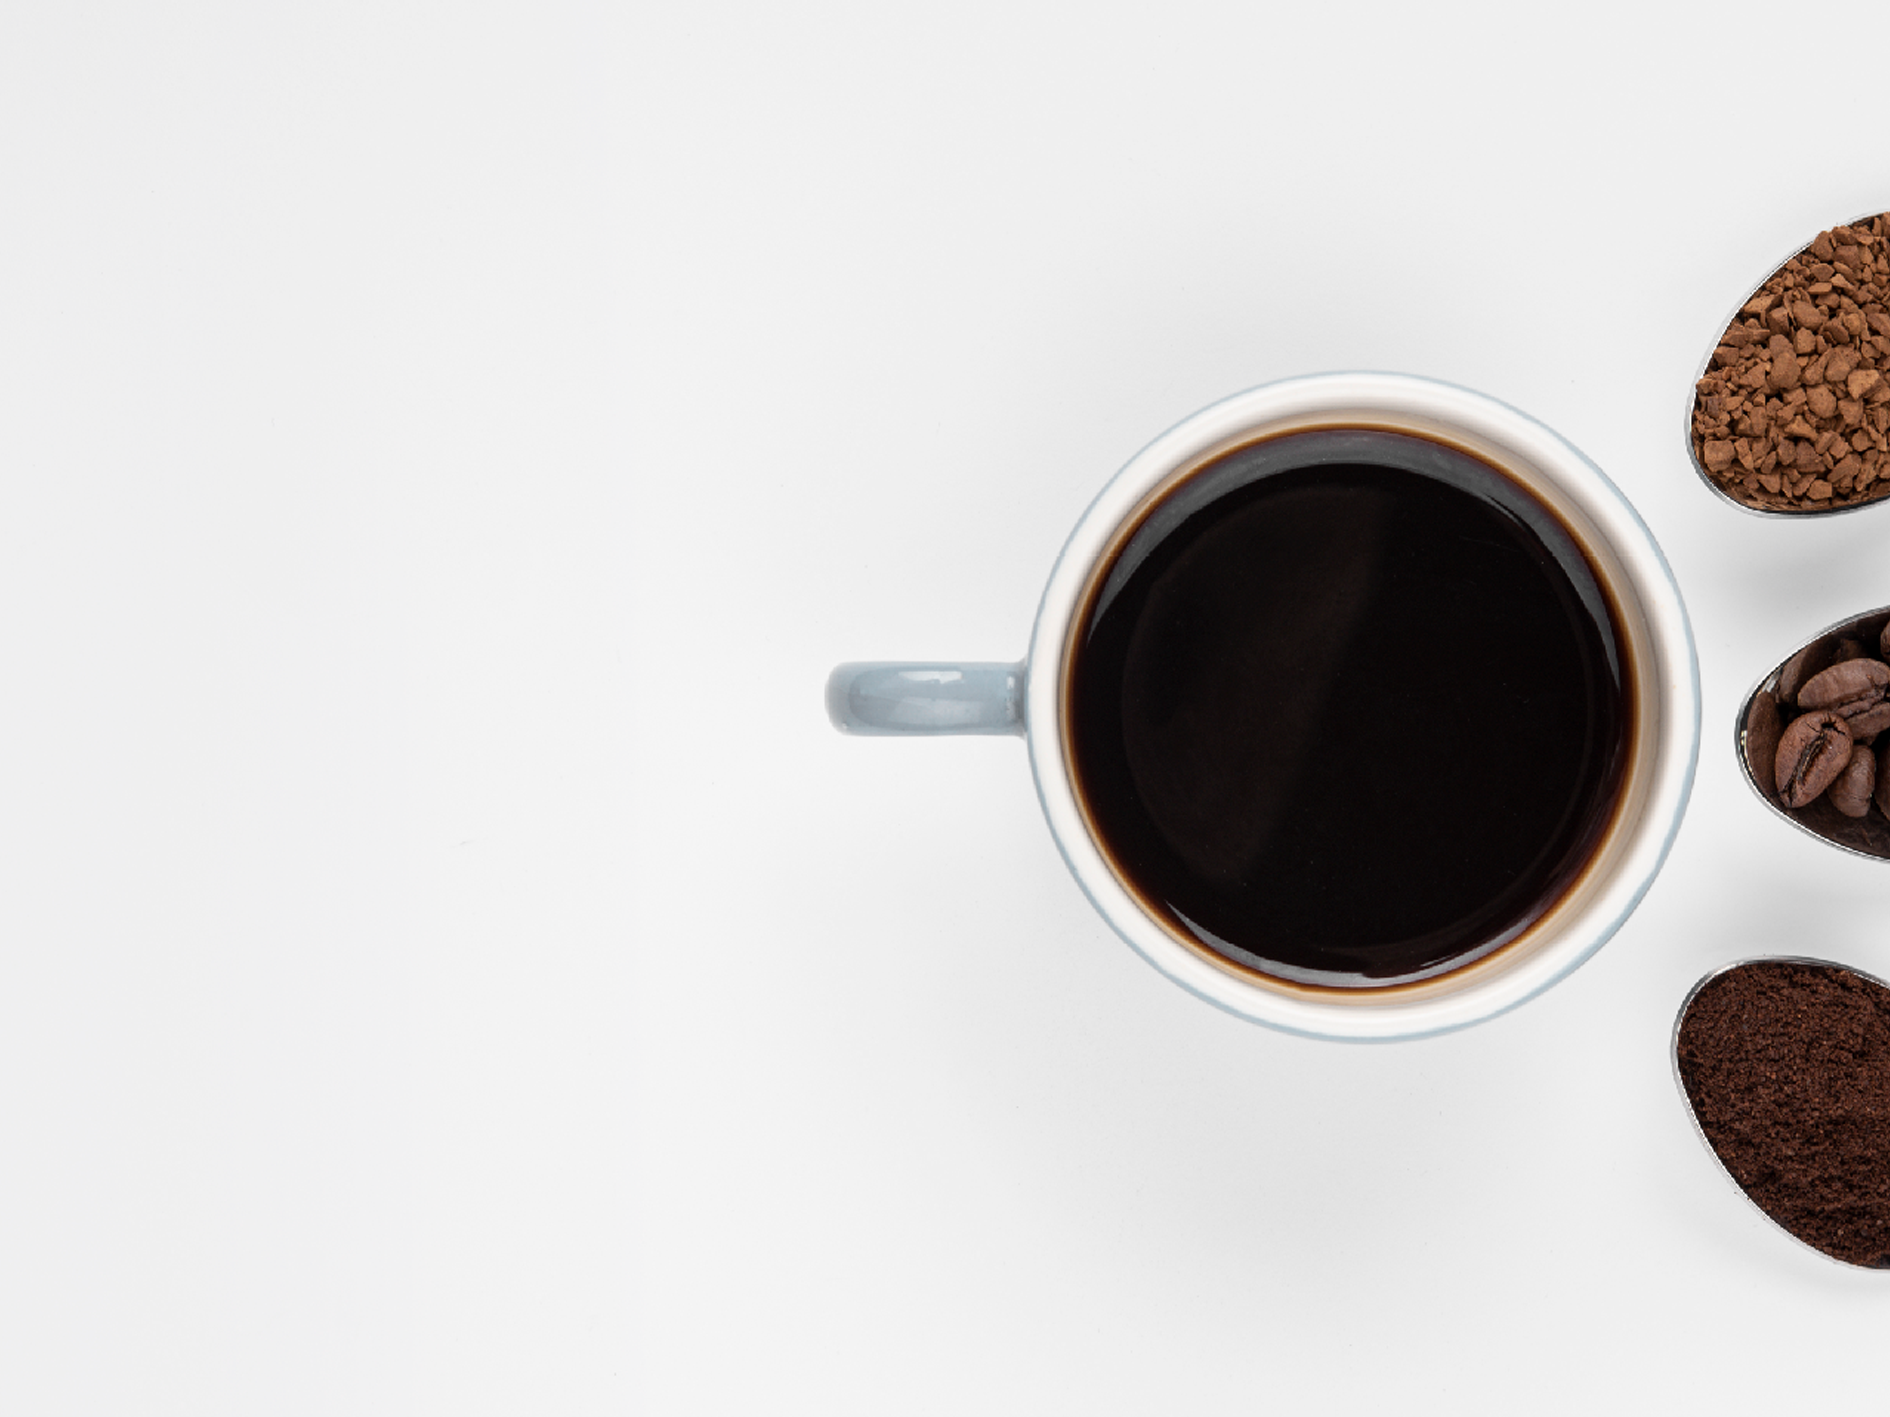
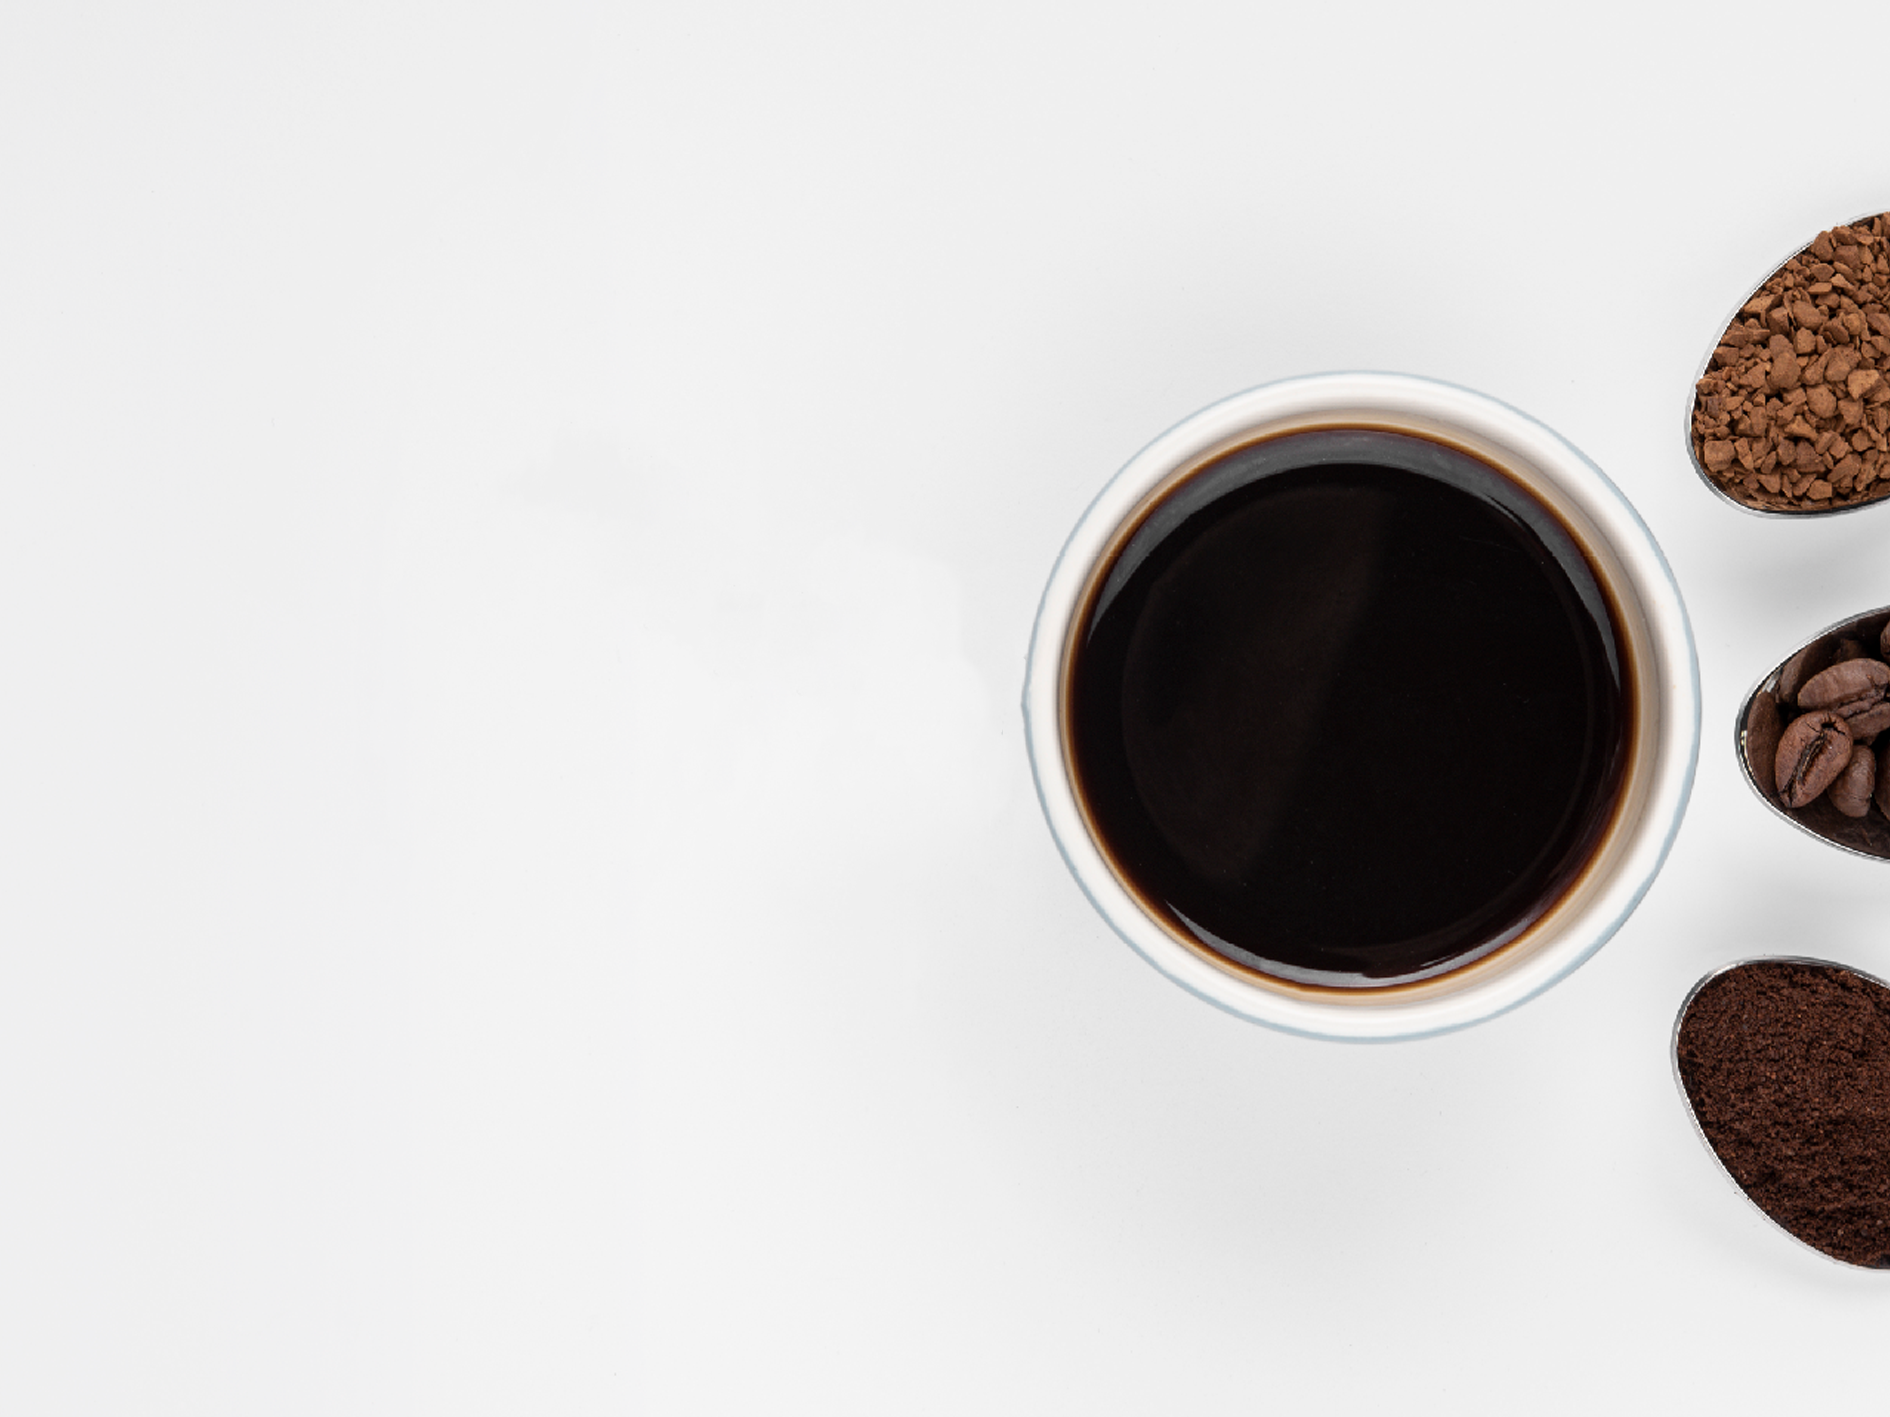
Squashed commit of the following:
commit 10c99d2cfba6b3add82af99d7a38c902960d48ee
Merge: 80c71c2 7853cb5
Author: KiedusCracknell <kieduscracknell@gmail.com>
Date:   Wed Jun 7 14:59:17 2023 +1200

    Merge branch 'styles' of https://github.com/KiedusCracknell/webL3-SBHSCoffeeClub into styles

commit 80c71c2adbbc3ba64ed31d1417b25fdf1e796909
Author: KiedusCracknell <kieduscracknell@gmail.com>
Date:   Wed Jun 7 14:58:36 2023 +1200

    Better background image

commit 7853cb540d65a37c6c85d60409ef51c06737b4b6
Author: ngakaumckerchar <ngakau.mckerchar@sbhsstudent.school.nz>
Date:   Wed Jun 7 14:58:31 2023 +1200

    <div class="contentBox"></div> was missing idk why

commit 945371f9f71d3ec084b06ba2b7e3879ffeb5b10a
Author: ngakaumckerchar <ngakau.mckerchar@sbhsstudent.school.nz>
Date:   Wed Jun 7 14:56:59 2023 +1200

    links will now take you to their page

commit 6714d72bf8b4e838d682e4957758c7bd08045acd
Author: ngakaumckerchar <ngakau.mckerchar@sbhsstudent.school.nz>
Date:   Wed Jun 7 14:53:39 2023 +1200

    opacity lowered for content box

commit 13298619c89eb9f7f35a22b622c9ea6beb187f5e
Author: ngakaumckerchar <ngakau.mckerchar@sbhsstudent.school.nz>
Date:   Wed Jun 7 14:50:49 2023 +1200

    logo is now black like the mock up

commit 536fa1edde30331a95f9a747f4b28005253e69c3
Merge: 503004d f729a96
Author: KiedusCracknell <62589687+KiedusCracknell@users.noreply.github.com>
Date:   Wed Jun 7 14:42:18 2023 +1200

    Merge pull request #4 from KiedusCracknell/contentBox
[…]

Changed region(s): [[0.437, 0.4658, 0.5619, 0.5279]]

diff --git a/styles.css b/styles.css
@@ -7,7 +7,7 @@ html {
 }
 .grid-container {
     display: grid;
-    grid-template-columns: 1fr 4fr 1fr;
+    grid-template-columns: 20vw 57vw 20vw;
     grid-template-rows: 20vh 30vh 40vh 10vh;
     /* 2fr 4fr 1fr */
 }
@@ -17,5 +17,17 @@ html {
     grid-row: 1/2;
 }
 .logo {
-    height: 50%;
+    width: 90%;
+    max-height: 100%;
+    max-width: 50%;
+    min-height: 30%;
+    min-width: 30%;
 }
+.contentBox {
+background-color: black;
+grid-column: 2/3;
+grid-row: 2/4;
+opacity: 60%;
+border-radius: 25px;
+}
+

diff --git a/index.html b/index.html
@@ -13,11 +13,12 @@
         <div class="navBar">
     <nav>
         <a href="index.html">Home</a>
-        <a href="index.html">About</a>
-        <a href="index.html">Menu</a>
-        <a href="index.html">Order</a>
+        <a href="about.html">About</a>
+        <a href="menu.html">Menu</a>
+        <a href="order.html">Order</a>
     </nav>
 </div>
+<div class="contentBox"></div>
 </div>
 </body>
 <footer></footer>
